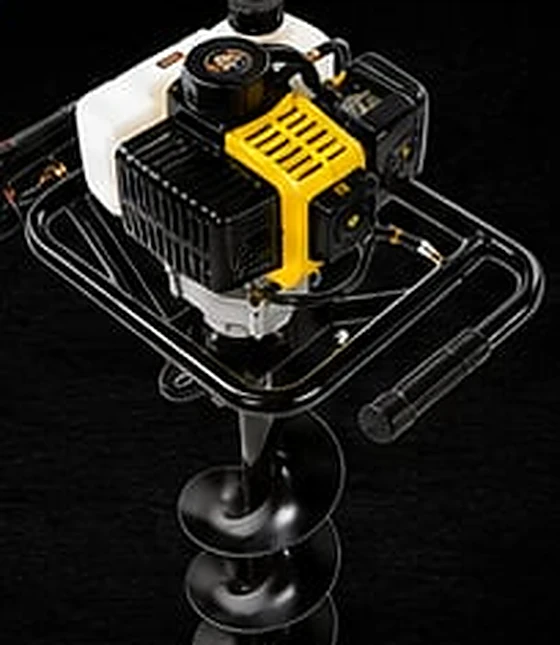
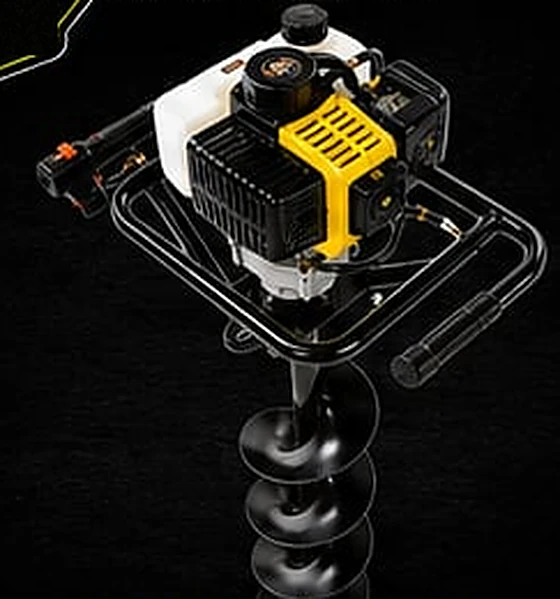
Hire: whole tool on the hammer and digger cards too
Containing instead of cropping fixed five cards. These two were still cut,
because the crop boxes themselves were too tight — the auger lost its
spiral, the breaker lost its chisel and its rear handle.

The digger had a clean box available and just needed a bigger one, plus a
small paint-out where the crest's "hire the tools" bar pokes into the left
of the frame.

The breaker does not. It runs corner to corner across its panel, straight
through the DAILY RATE block and the feature list, so no rectangle holds
the whole tool and nothing else. The furniture is painted out with the
panel's own dark ground instead, on a COPY — doing it in place stripped
the $50 off the printed flyer, which is the opposite of the job.

Every bound here was measured, not eyeballed:

  - A connected-component pass over the bright pixels gave each object's
    bbox, so the paint rectangles can be checked to fall in the gaps
    between tool and furniture. My eyeballed coordinates had put three of
    four flood-fill seeds on background.
  - Row scans settled the tight edges: the rate block's pixels stop at
    y=338 and the chisel's first appear at y=341, so the rectangle can end
    at 341 and miss it. The auger's spiral ends at y=422.

Two approaches were tried and abandoned, both recorded in the script:

  - Seeded flood fill to keep "everything connected to the tool" erased
    the chisel, whose bright regions are separated from the body by darker
[…]

diff --git a/src/lib/storage.ts b/src/lib/storage.ts
@@ -23,7 +23,7 @@ export const HIRE_PHOTOS_BUCKET = "hire-photos";
  *
  * Same trick, same reason as the `?v=` on the walker images in HomeHero.
  */
-export const HIRE_ASSET_VERSION = "4";
+export const HIRE_ASSET_VERSION = "5";
 
 /**
  * Public URL for an uploaded hire photo.

diff --git a/scripts/hire-flyers/import-flyer-sheet.py b/scripts/hire-flyers/import-flyer-sheet.py
@@ -49,10 +49,19 @@ PANELS = {
 # flyer copy is exactly the defect this is fixing.
 PRODUCT = {
     "cement-mixer": (180, 172, 398, 398),
-    "post-hole-digger": (185, 165, 389, 400),
+    # Whole auger: engine at y=158 down to the spiral tip, which a row scan
+    # puts at y=422 — stopping at 418 drops the lime rule of the "what it
+    # can be used for" heading, at the cost of a few pixels of spiral tip.
+    # The rate block and feature list are left of x=130, so only the
+    # "hire the tools" bar needs painting out — see ERASE_RECTS.
+    "post-hole-digger": (146, 158, 389, 418),
     # Left edge starts past the DAILY RATE block, which sits at x<140
     # on this panel; the feature list below starts at y>305.
-    "demolition-hammer": (163, 188, 403, 302),
+    # The breaker runs corner to corner THROUGH the rate block and the
+    # feature list, so no rectangle contains the whole tool and nothing
+    # else. Everything bright that is not connected to the tool is
+    # erased first — see ISOLATE below.
+    "demolition-hammer": (14, 163, 403, 426),
     "lawn-roller": (138, 194, 362, 386),
     "deutscher-slasher": (168, 201, 385, 365),
 }
@@ -71,6 +80,50 @@ TINT_TO_BRAND = {
     "lawn-roller": [
         (146, 316), (158, 299), (236, 290), (266, 302),
         (272, 350), (250, 383), (172, 393), (149, 373),
+    ],
+}
+
+# Where a tool overlaps the flyer's own furniture, the furniture is erased
+# rather than the tool cropped. Keyed by a seed point ON the tool: every
+# bright run connected to that seed is kept, everything else bright inside
+# the box is painted out with the panel's own dark ground.
+#
+# Seeded rather than "keep the biggest blob", because the DAILY RATE panel
+# is a solid yellow rectangle and quite capable of being the biggest blob
+# on the page.
+# Flyer furniture to paint out of a CARD crop, where the tool overlaps it.
+#
+# The breaker runs corner to corner across its panel, straight through the
+# rate block and the feature list, so no rectangle holds the whole tool and
+# nothing else. These are painted with the panel's own dark ground.
+#
+# The bounds are not eyeballed. A connected-component pass over the bright
+# pixels gave every object's bbox, and each rectangle below is checked to
+# fall in the gaps between them:
+#
+#   tool   body (225,164)-(397,297)   collar (141,267)-(221,337)
+#          chisel (14,334)-(126,412)  handles (174,185)-(236,238), (382,179)-(402,249)
+#   junk   crest strip (20,163)-(162,176)   rate block (14,214)-(140,324)
+#          feature icons/text x>=242 y>=317   uses bar (37,422)-(197,425)
+#
+# Erasing by brightness instead was tried and leaves ghosts: the letters go
+# but their anti-aliased edges sit under any sensible threshold, so the card
+# shows a shadow of "DAILY RATE $50".
+ERASE_RECTS = {
+    # Just the right-hand end of the crest's "hire the tools" bar, which
+    # reaches x=170 and so pokes into the left of the auger's crop. The
+    # tool's own pixels on those rows start at x=171.
+    "post-hole-digger": [(138, 150, 171, 182)],
+    "demolition-hammer": [
+        # x<173 throughout: the front handle starts at x=174 and the body at
+        # x=225, so this clears the whole crest without touching either.
+        (8, 148, 173, 214),
+        # Rate block including the PER DAY bar. Row scan: the block's bright
+        # pixels run to y=338, and the chisel's first bright pixel on any row
+        # is x=106 at y=341 — so stopping at x=139, y=341 misses it.
+        (8, 196, 139, 341),
+        (230, 302, 403, 426),  # feature list, starting below the body (y<=297)
+        (8, 414, 232, 426),    # "what it can be used for" bar, below the tip (y<=412)
     ],
 }
 
@@ -130,6 +183,36 @@ def tint_to_brand(panel: Image.Image, polygon: list) -> int:
     return changed
 
 
+def erase_furniture(panel: Image.Image, rects: list) -> int:
+    """Paint flyer furniture out of a card crop with the panel's own ground.
+
+    Flat fill plus grain, sampled from the darkest pixels around the tool, so
+    the patch matches the speckled backdrop the photograph was shot on.
+    """
+    import colorsys
+    import random
+    import statistics
+
+    px = panel.load()
+    dark = [
+        px[x, y][:3]
+        for y in range(0, panel.height, 3)
+        for x in range(0, panel.width, 3)
+        if colorsys.rgb_to_hsv(*[c / 255 for c in px[x, y][:3]])[2] < 0.08
+    ]
+    base = tuple(int(statistics.median(c[i] for c in dark)) for i in range(3))
+    rng = random.Random(11)
+
+    painted = 0
+    for x0, y0, x1, y1 in rects:
+        for y in range(y0, min(y1, panel.height)):
+            for x in range(x0, min(x1, panel.width)):
+                j = rng.gauss(0, 2)
+                px[x, y] = tuple(max(0, min(255, int(base[i] + j))) for i in range(3))
+                painted += 1
+    return painted
+
+
 def import_sheet(sheet: Image.Image, out: Path) -> None:
     for slug, box in PANELS.items():
         panel = sheet.crop(box)
@@ -141,7 +224,18 @@ def import_sheet(sheet: Image.Image, out: Path) -> None:
 
         if slug not in PRODUCT:
             continue
-        shot = panel.crop(PRODUCT[slug])
+
+        # Erasing the flyer's furniture is for the CARD only — the flyer
+        # itself obviously has to keep its rate block and feature list. Done
+        # on a copy for exactly that reason; doing it in place stripped the
+        # $50 off the printed hammer flyer.
+        source = panel
+        if slug in ERASE_RECTS:
+            source = panel.copy()
+            n = erase_furniture(source, ERASE_RECTS[slug])
+            print(f"{slug}: {n} px of flyer furniture painted out, card only")
+
+        shot = source.crop(PRODUCT[slug])
         card = shot.resize(
             (CARD_WIDTH, round(CARD_WIDTH * shot.height / shot.width)), Image.LANCZOS
         )
